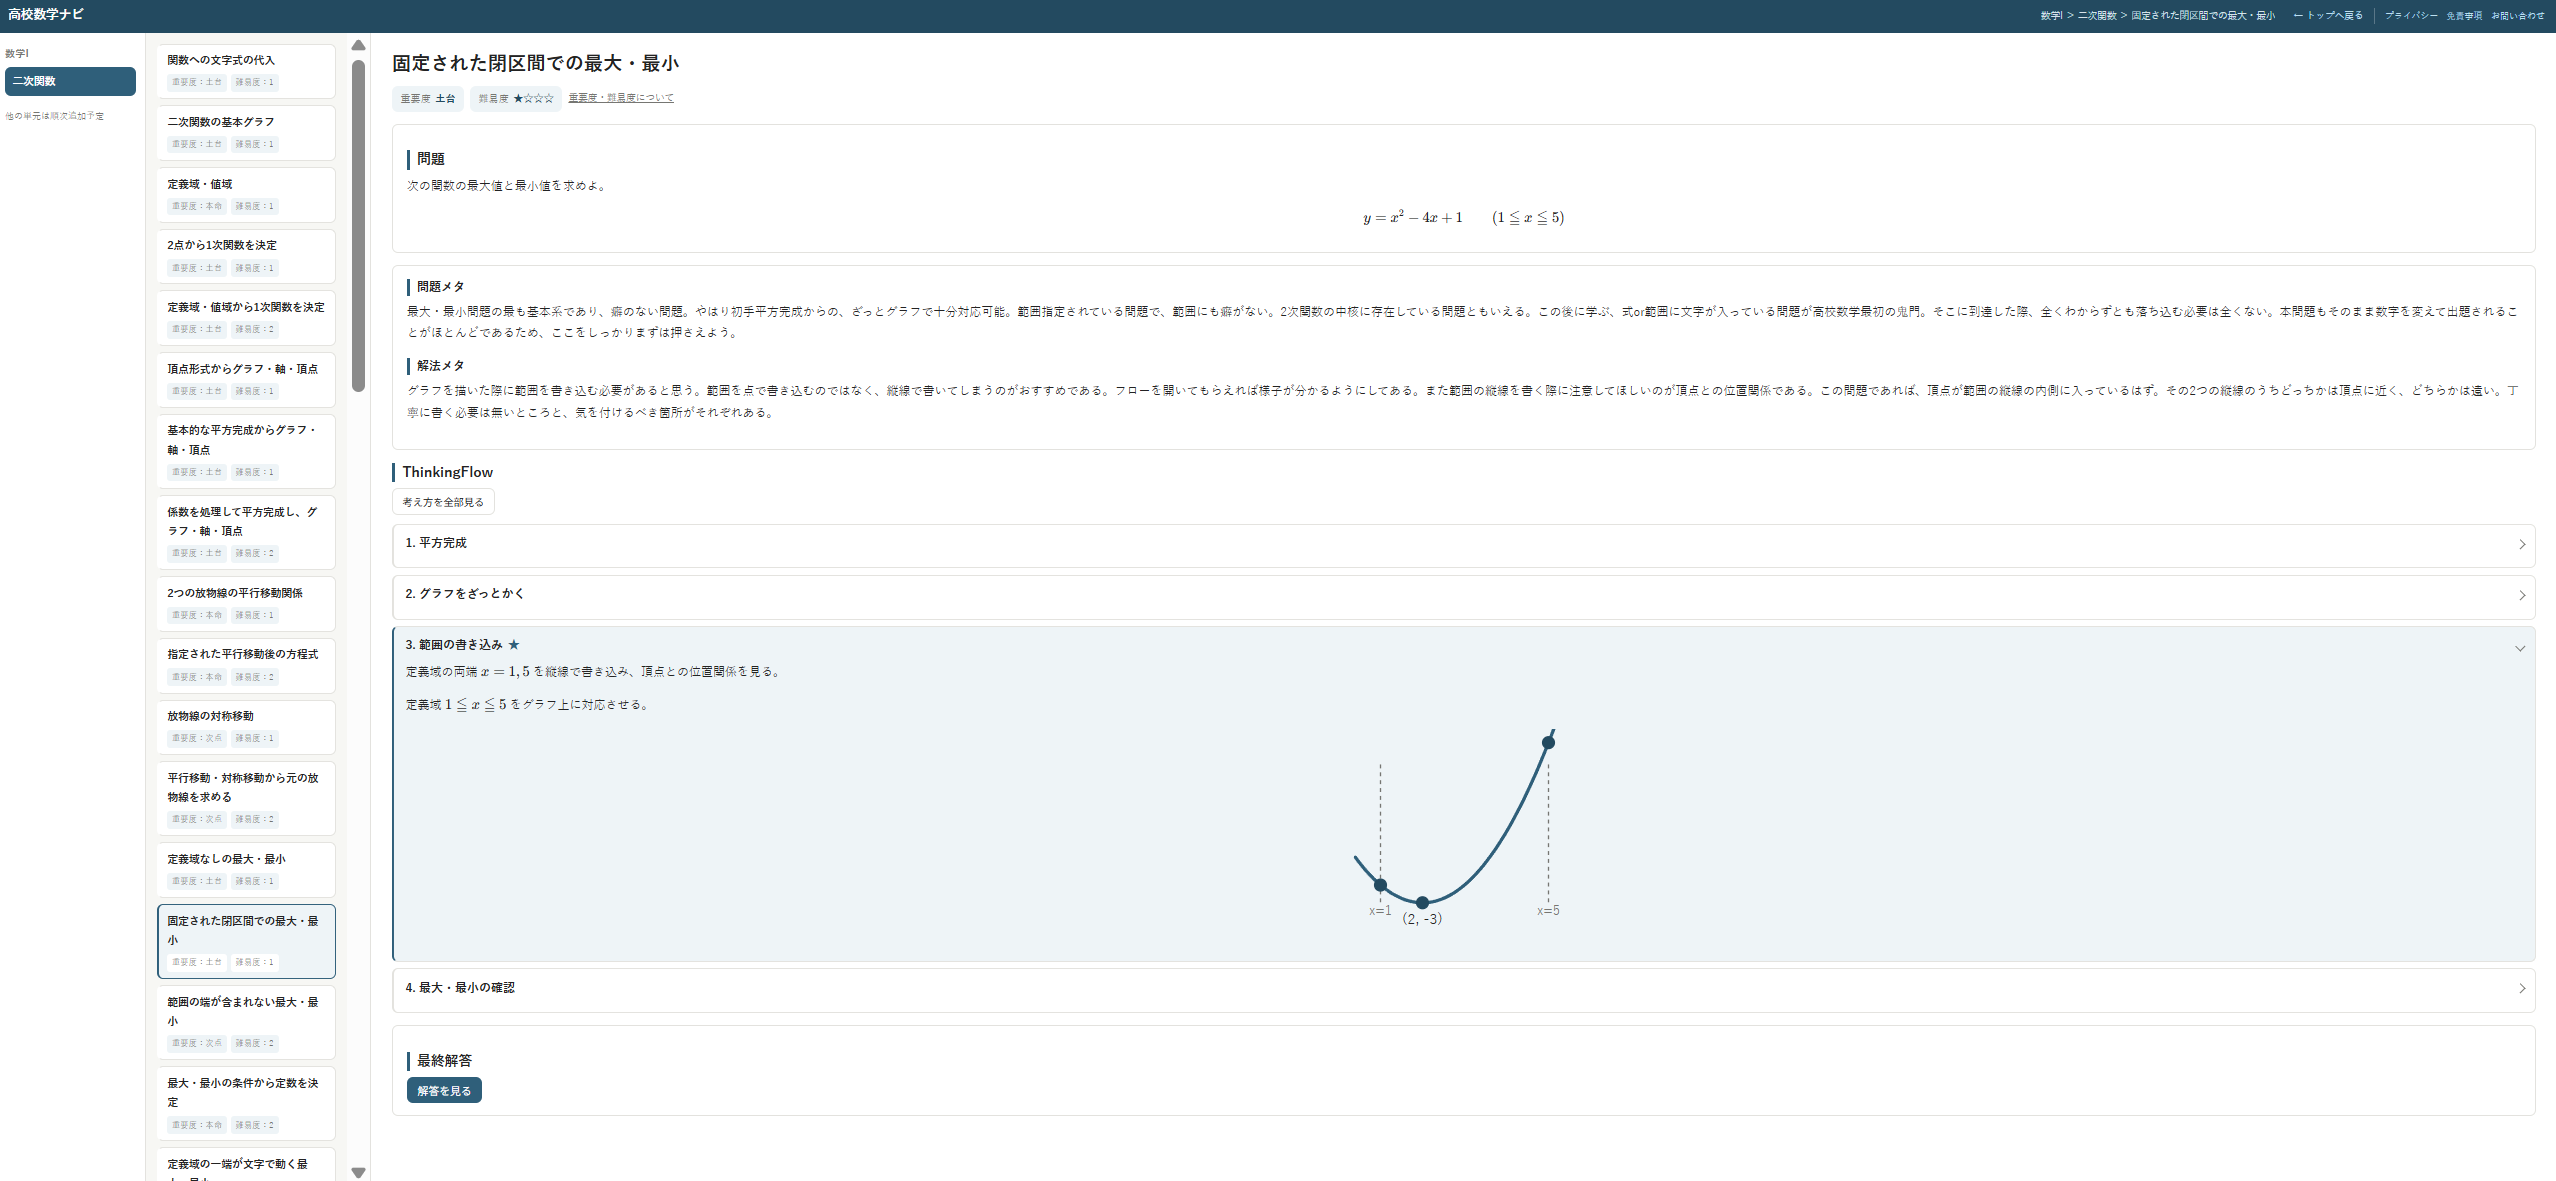
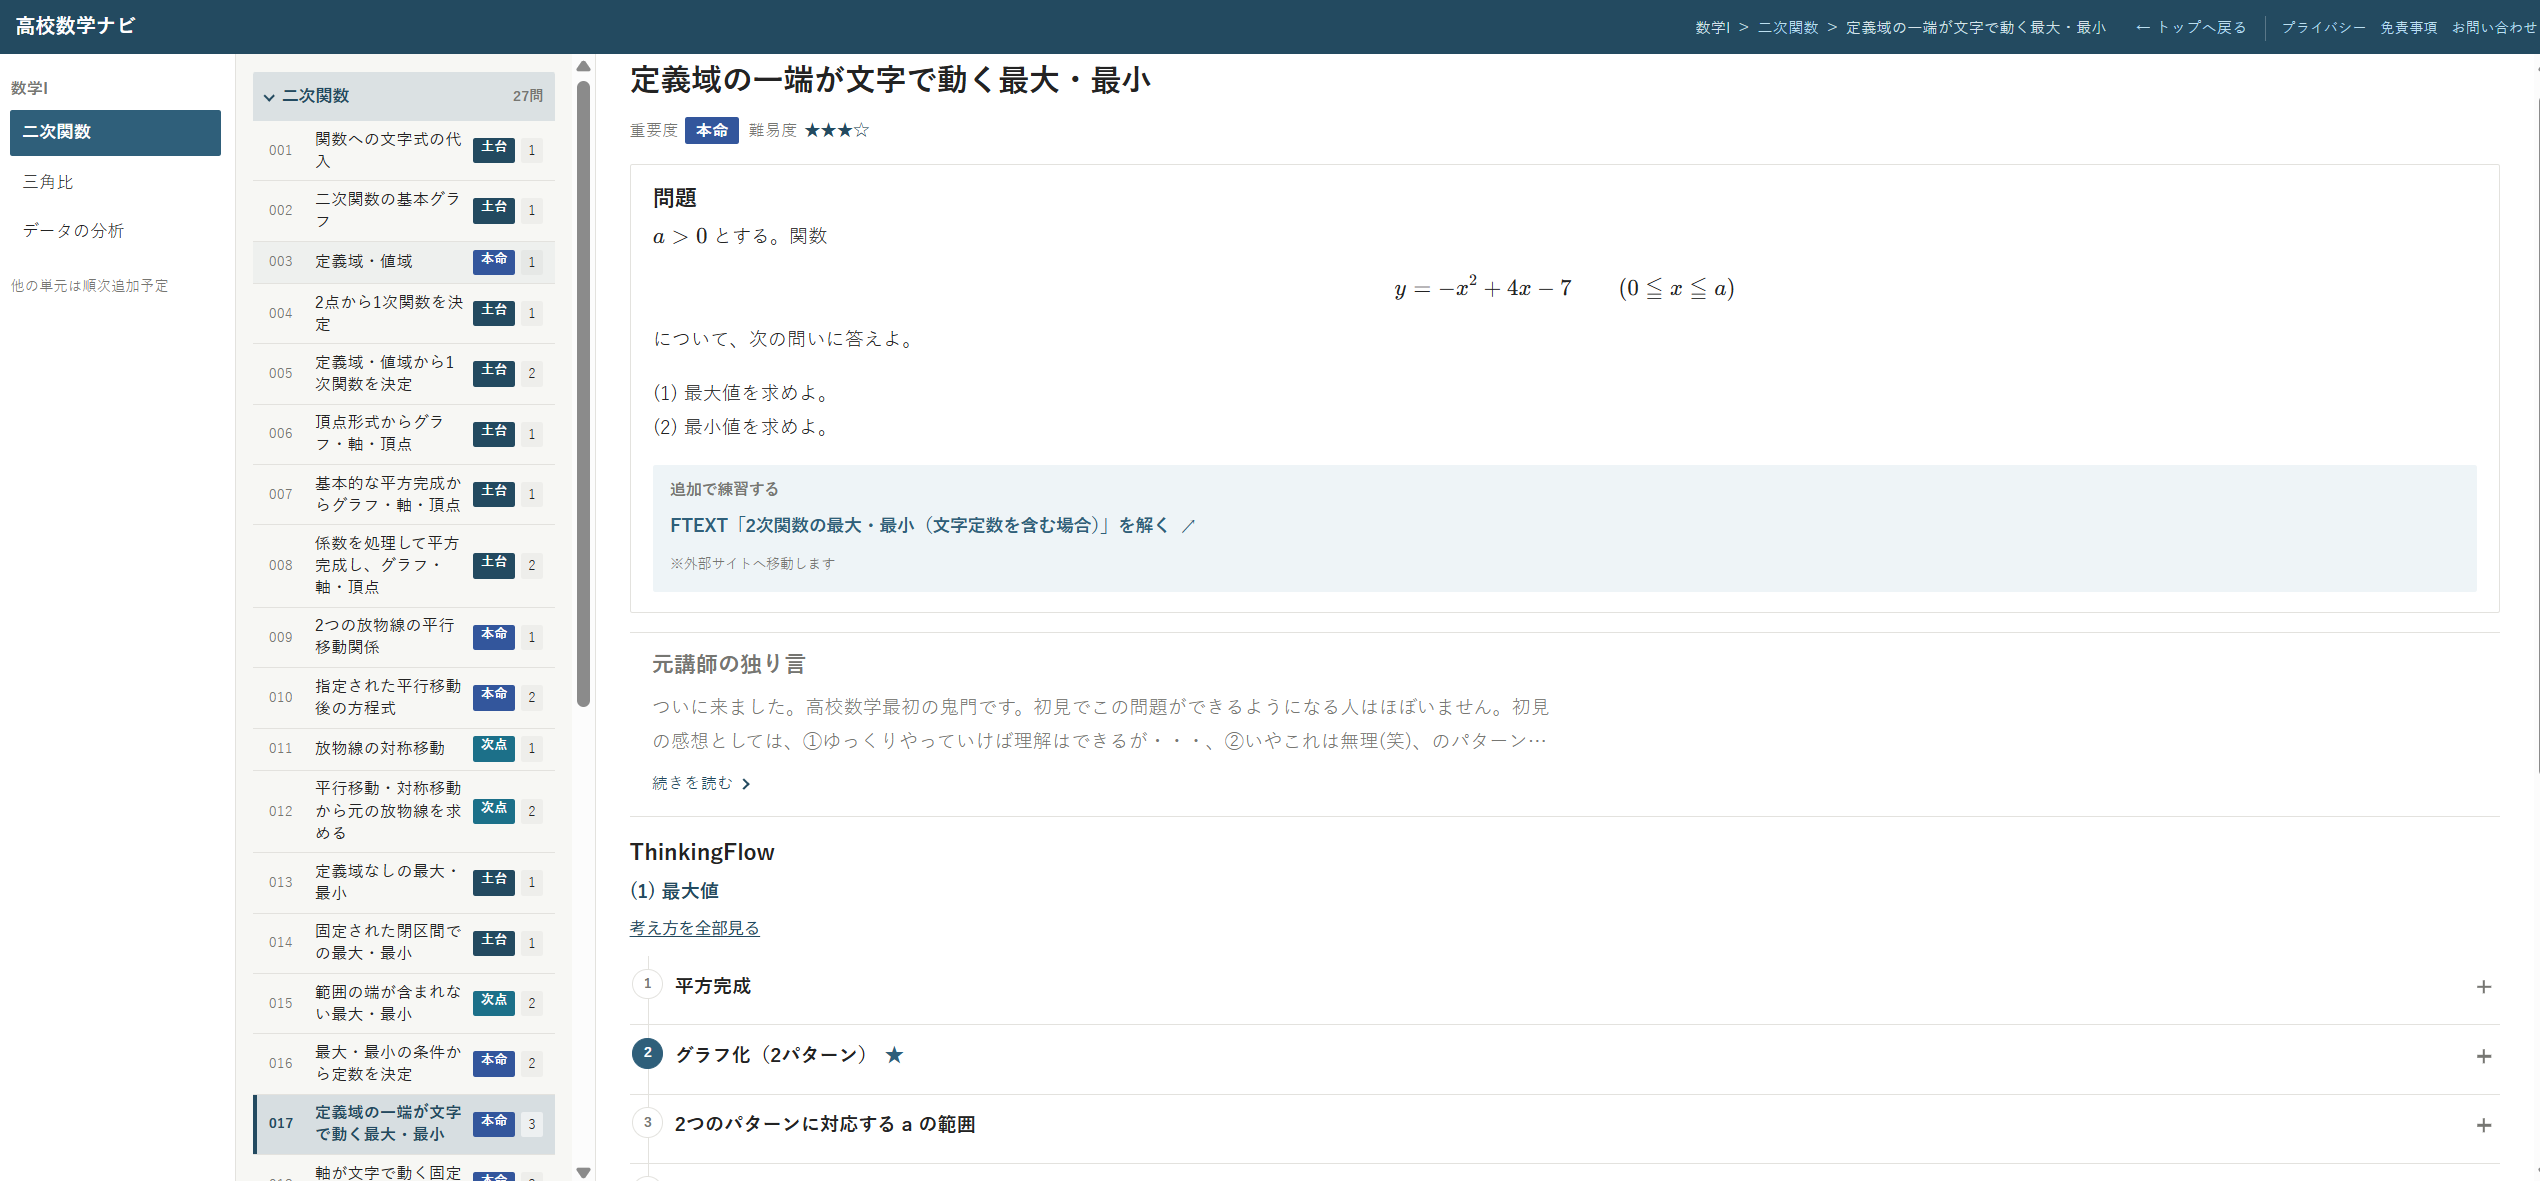
Refine top page visual design

diff --git a/src/styles/global.css b/src/styles/global.css
@@ -219,10 +219,11 @@ ul {
   border-radius: var(--radius);
 }
 .badge-status {
-  /* このサイトでは赤を主要アクセントにしないため、警告色ではなく
-     控えめな補助アクセント（--color-accent）を使う。 */
-  background: var(--color-accent);
-  color: #fff;
+  /* ピル型の塗りバッジをやめ、細い枠＋文字色だけの静かな小ラベルにする
+     （影なし・強い角丸なし・派手な塗りなし）。 */
+  background: none;
+  border: 1px solid var(--color-border);
+  color: var(--color-text-muted);
 }
 .hero-title {
   font-size: 1.85rem;
@@ -237,8 +238,10 @@ ul {
   /* TOPページのメインコピーのみ対象（他ページのhero-titleは短文のため対象外）。
      2行固定（マークアップ側の<br />）を前提に、vw基準で滑らかにスケールさせる。
      現行比で約2倍を目安にしつつ、狭幅では行の文字数に対して確実に収まる
-     範囲（下限1.5rem）にとどめ、横スクロールが発生しないようにする。 */
-  font-family: "Zen Maru Gothic", var(--font-base);
+     範囲（下限1.5rem）にとどめ、横スクロールが発生しないようにする。
+     UIブラッシュアップ（トップページ、2026-09）で丸ゴシック（Zen Maru Gothic）
+     の装飾フォントをやめ、本文と同じ--font-baseへ揃えた。 */
+  font-family: var(--font-base);
   font-weight: 700;
   font-size: clamp(1.2rem, 6vw, 3.6rem);
   line-height: 1.4;
@@ -246,7 +249,8 @@ ul {
 .hero-tagline {
   color: var(--color-text-muted);
   font-family: "M PLUS 2", var(--font-base);
-  font-weight: 600;
+  /* 主見出しより一段静かに見せるため、600（半太字）から通常ウェイトへ。 */
+  font-weight: 400;
   font-size: clamp(1rem, 4vw, 2rem);
   margin: 0 0 0.9rem;
 }
@@ -272,8 +276,9 @@ ul {
 }
 /* TOPのヒーローCTAのみ対象（.btn-primaryは404/Contactと共有のため無変更）。
    UIブラッシュアップ第一段階（2026-09）で、押し込み立体感のbox-shadowと
-   hover時のtranslateY浮き上がりを撤去し、背景色の変化だけに単純化した
-   （文言・配色・矢印スライドのhoverは維持）。 */
+   hover時のtranslateY浮き上がりを撤去し、背景色の変化だけに単純化した。
+   トップページのブラッシュアップ（2026-09）で、矢印スライドのhoverアニメーションも
+   撤去し、hoverは背景色の変化のみにした。 */
 .hero-cta-link {
   display: inline-flex;
   align-items: center;
@@ -295,14 +300,10 @@ ul {
   width: 1.15em;
   height: 1.15em;
   flex-shrink: 0;
-  transition: transform 200ms ease-out;
 }
 .hero-cta-link:hover {
   background: var(--color-primary-dark);
   text-decoration: none;
-}
-.hero-cta-link:hover .hero-cta-icon {
-  transform: translateX(6px);
 }
 .hero-cta-link:focus-visible {
   outline: 2px solid var(--color-accent);
@@ -312,12 +313,8 @@ ul {
   background: var(--color-primary-dark);
 }
 @media (prefers-reduced-motion: reduce) {
-  .hero-cta-link,
-  .hero-cta-icon {
+  .hero-cta-link {
     transition: none;
-  }
-  .hero-cta-link:hover .hero-cta-icon {
-    transform: none;
   }
 }
 .hero-link {
@@ -443,15 +440,6 @@ ul {
   margin: 0 auto;
   text-align: center;
 }
-.features-eyebrow {
-  /* メインブルーとは濃淡を変え、補助アクセントで小見出し感を出す */
-  color: var(--color-accent);
-  font-family: "M PLUS 2", var(--font-base);
-  font-weight: 600;
-  font-size: 0.75rem;
-  letter-spacing: 0.12em;
-  margin: 0 0 0.4rem;
-}
 .features-heading {
   border-left: none;
   padding-left: 0;
@@ -459,17 +447,6 @@ ul {
   font-family: "M PLUS 2", var(--font-base);
   font-size: 1.5rem;
   text-align: center;
-}
-.feature-icon {
-  width: 56px;
-  height: 56px;
-  margin: 0 auto 0.9rem;
-  color: var(--color-primary);
-}
-.feature-icon svg {
-  display: block;
-  width: 100%;
-  height: 100%;
 }
 
 /* 「このサイトについて」の本文。外枠のカード化はやめ、.dash-sectionの
@@ -575,21 +552,25 @@ ul {
   color: var(--color-text-muted);
 }
 .concept-item--numbered {
-  grid-template-columns: 2.05rem 3.25rem 1fr;
+  grid-template-columns: 1.6rem 3.25rem 1fr;
   align-items: center;
 }
+/* 単なる装飾だった大きな塗りつぶし丸数字をやめ、ThinkingFlowのSTEP番号
+   （.thinking-step-number／.mini-flow-step-num）と同じ、小さく控えめな
+   アウトライン円に揃える（難易度は重要度ほど色を主張させない現行方針を維持）。 */
 .concept-item-num {
   display: inline-flex;
   align-items: center;
   justify-content: center;
-  width: 2.05rem;
-  height: 2.05rem;
+  width: 1.6rem;
+  height: 1.6rem;
   border-radius: 50%;
-  background: var(--color-primary);
-  color: #fff;
-  font-family: "M PLUS 2", var(--font-base);
-  font-weight: 600;
-  font-size: 1rem;
+  border: 1px solid var(--color-border);
+  background: var(--color-surface);
+  color: var(--color-text-muted);
+  font-family: var(--font-base);
+  font-weight: 700;
+  font-size: 0.75rem;
 }
 
 /* 定期試験セル：「高校数学ナビ」×「学校の情報」が下の「あなたの優先順位」へ
@@ -694,13 +675,29 @@ ul {
   padding: 0;
   width: 100%;
 }
+/* 実際のThinkingFlow（.thinking-step／.thinking-step-number）と同じ
+   「縦レール＋番号マーカー＋★」という視覚言語を、小さな説明図として再現する
+   （トップページ専用の新コンポーネントは作らず、この最小限のCSSだけで寄せる）。 */
+.mini-flow-step {
+  position: relative;
+  padding-left: 2.2rem;
+}
 .mini-flow-step:not(:first-child) {
   border-top: 1px solid var(--color-border);
+}
+.mini-flow-step::before {
+  content: "";
+  position: absolute;
+  left: 0.75rem;
+  top: 0;
+  bottom: 0;
+  width: 1px;
+  background: var(--color-border);
 }
 .mini-flow-toggle {
   display: flex;
   align-items: baseline;
-  gap: 0.6rem;
+  gap: 0.5rem;
   width: 100%;
   border: none;
   background: none;
@@ -719,18 +716,32 @@ ul {
   outline-offset: 2px;
 }
 .mini-flow-step-num {
-  flex-shrink: 0;
-  font-family: "M PLUS 2", var(--font-base);
-  font-weight: 600;
-  font-size: 0.82rem;
-  letter-spacing: 0.04em;
-  color: var(--color-accent);
+  position: absolute;
+  left: 0;
+  top: 0.65rem;
+  z-index: 1;
+  display: flex;
+  align-items: center;
+  justify-content: center;
+  width: 1.5rem;
+  height: 1.5rem;
+  border-radius: 50%;
+  border: 1px solid var(--color-border);
+  background: var(--color-surface);
+  color: var(--color-text-muted);
+  font-family: var(--font-base);
+  font-weight: 700;
+  font-size: 0.75rem;
 }
 .mini-flow-step-title {
   font-family: "M PLUS 2", var(--font-base);
   font-weight: 600;
   font-size: 1.1rem;
   color: var(--color-primary-dark);
+}
+.mini-flow-step-star {
+  color: var(--color-primary);
+  font-size: 0.85rem;
 }
 /* JSでheightを測らずに開閉できるよう、grid-template-rowsの0fr/1frで
    アコーディオンを実装する（“ゆっくり開く”動きもtransitionだけで表現）。 */
